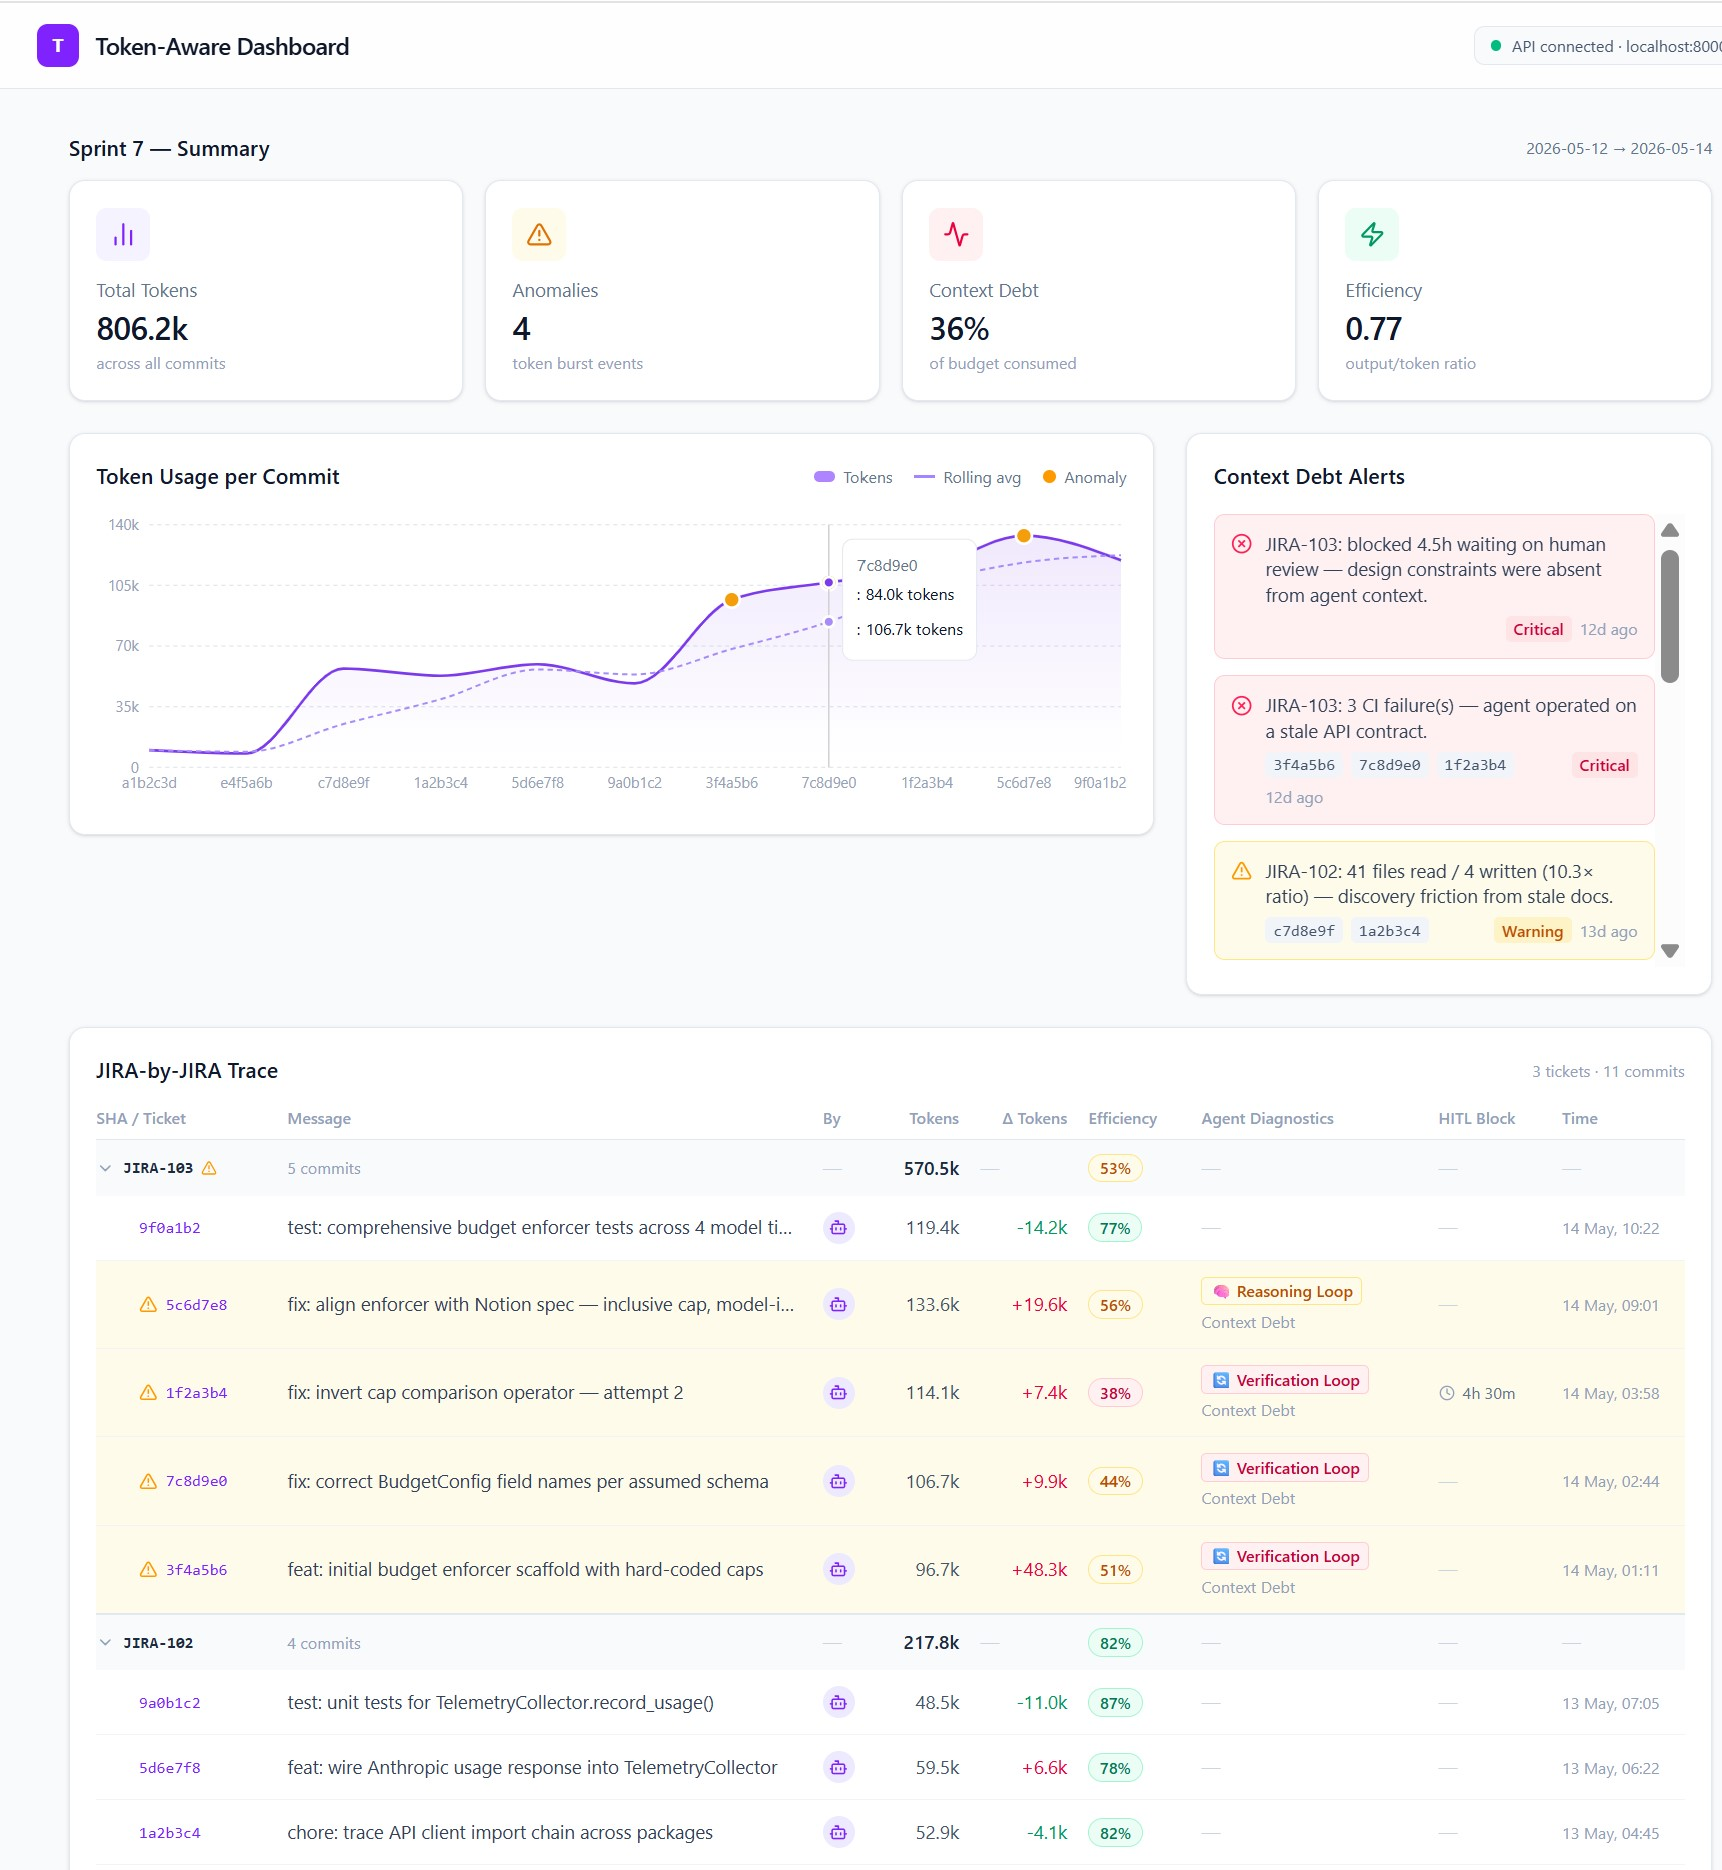
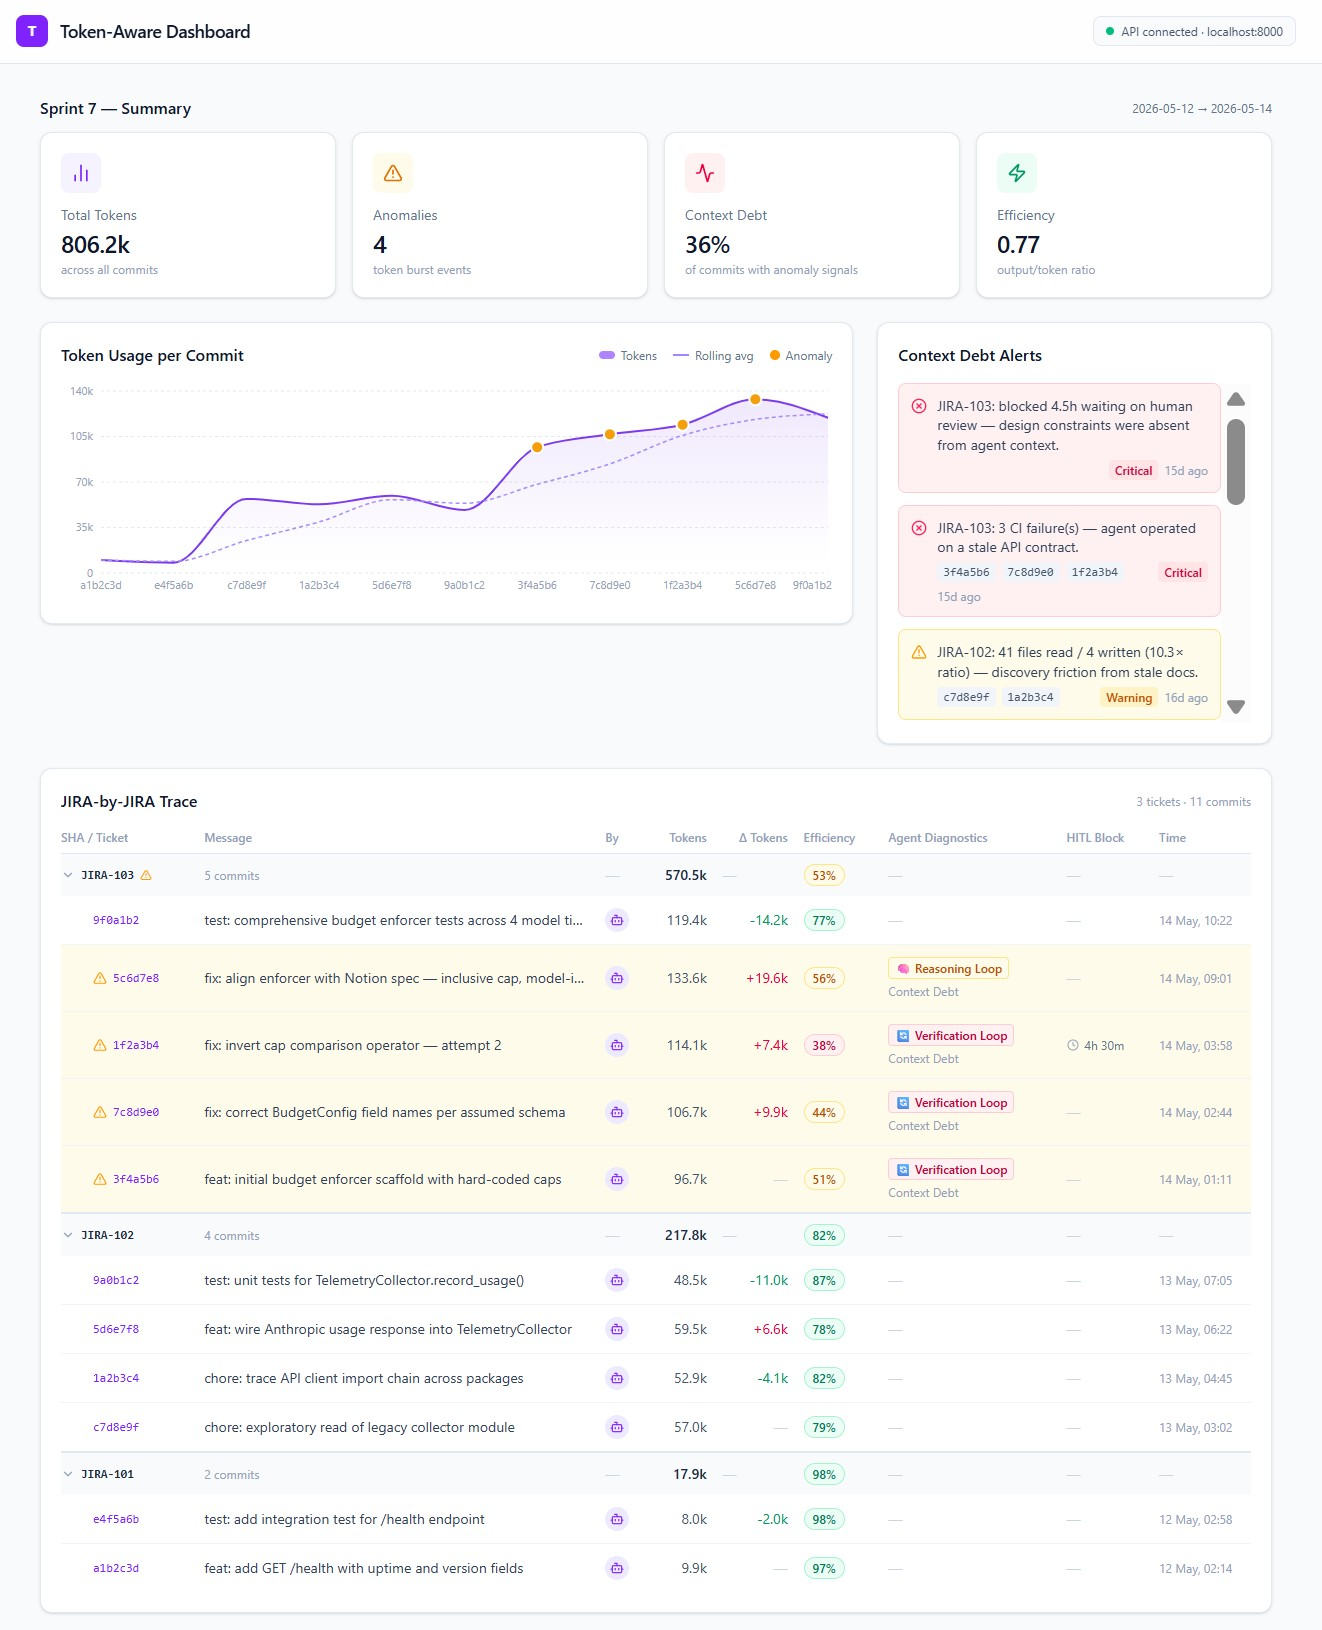
fix: fixing display for delta token for first commit of the JIRA story

diff --git a/frontend/src/components/CommitTrace.tsx b/frontend/src/components/CommitTrace.tsx
@@ -200,7 +200,7 @@ function GroupHeaderRow({ group, isExpanded, onToggle, hasSeparator }: GroupHead
 
 // ── child commit row ──────────────────────────────────────────────────────────
 
-function CommitRow({ commit }: { commit: Commit }) {
+function CommitRow({ commit, isBaseline }: { commit: Commit; isBaseline?: boolean }) {
   const eff = commit.efficiencyScore ?? Math.max(0, 1 - commit.debtScore / 100);
   return (
     <tr
@@ -237,16 +237,22 @@ function CommitRow({ commit }: { commit: Commit }) {
       </td>
 
       {/* Δ Tokens */}
-      <td
-        className={`py-3 pr-4 text-right tabular-nums ${
-          commit.deltaTokens > 0
-            ? 'text-rose-600'
-            : commit.deltaTokens < 0
-              ? 'text-emerald-600'
-              : 'text-slate-400'
-        }`}
-      >
-        {fmtDelta(commit.deltaTokens)}
+      <td className="py-3 pr-4 text-right tabular-nums">
+        {isBaseline ? (
+          <span className="text-slate-300">—</span>
+        ) : (
+          <span
+            className={
+              commit.deltaTokens > 0
+                ? 'text-rose-600'
+                : commit.deltaTokens < 0
+                  ? 'text-emerald-600'
+                  : 'text-slate-400'
+            }
+          >
+            {fmtDelta(commit.deltaTokens)}
+          </span>
+        )}
       </td>
 
       {/* Efficiency pill */}
@@ -325,7 +331,13 @@ export function CommitTrace({ commits }: Props) {
                   hasSeparator={groupIdx > 0}
                 />
                 {expanded.has(group.jiraId) &&
-                  group.commits.map((c) => <CommitRow key={c.sha} commit={c} />)}
+                  group.commits.map((c, idx) => (
+                    <CommitRow
+                      key={c.sha}
+                      commit={c}
+                      isBaseline={idx === group.commits.length - 1}
+                    />
+                  ))}
               </Fragment>
             ))}
           </tbody>